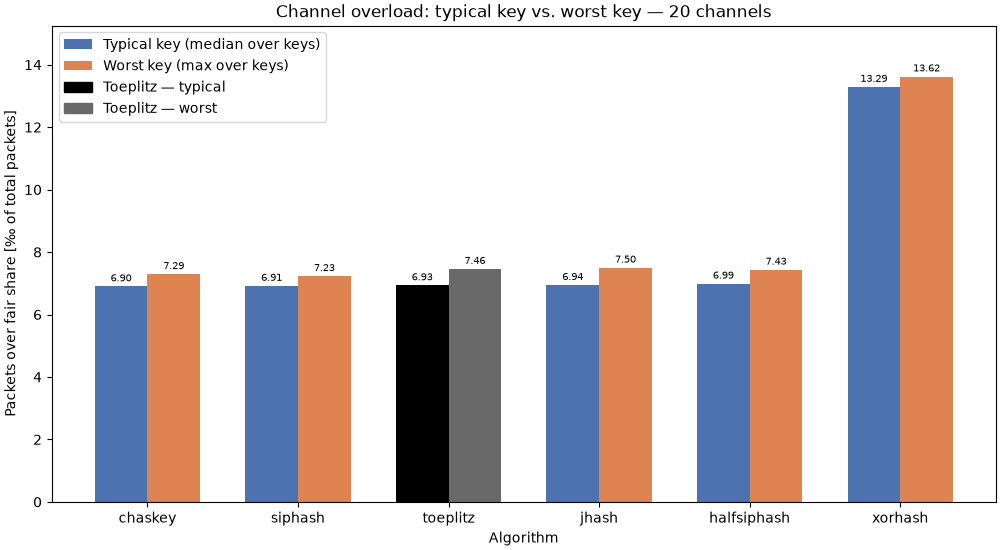
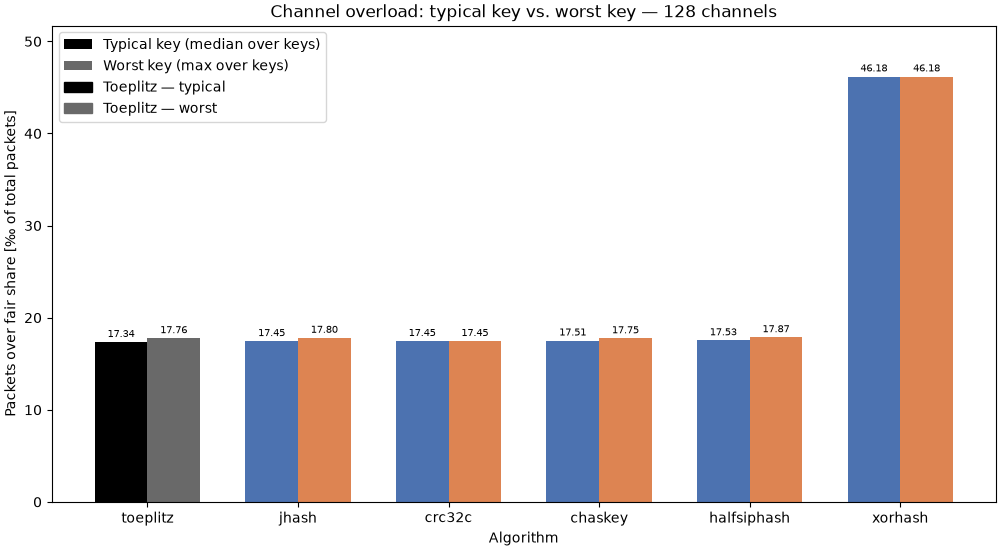
first try with graph agregation

diff --git a/analyze.py b/analyze.py
@@ -1,12 +1,17 @@
 import pandas as pd
 import matplotlib.pyplot as plt
 from matplotlib.patches import Patch
+from matplotlib.ticker import ScalarFormatter
 
 from pathlib import Path
 import sys
 
-CRYPTO_ALGOS = {"chaskey", "halfsiphash", "siphash", "jhash"}
-NON_CRYPTO_ALGOS = {"crc32c", "ascon", "spookyhash", "nsgahash4"}
+ALGOS = {"chaskey", "halfsiphash", "crc32c", "jhash"}
+
+COLORS = {
+    "toeplitz": "black", "jhash": "#4C72B0", "chaskey": "#55A868",
+    "halfsiphash": "#C44E52", "crc32c": "#8172B2", "xorhash": "#CCB974",
+}
 
 
 def load_results(csv_path : Path) -> pd.DataFrame:
@@ -16,102 +21,117 @@ def load_results(csv_path : Path) -> pd.DataFrame:
 
 def aggregate_by_algorithm_run_avg(data: pd.DataFrame, DMA: int) -> pd.DataFrame:
     filtered = data[data["num_channels"] == DMA]
+    sym = filtered["symmetry"].iloc[0]   # kazdy vstupny subor = jedna symetria
 
-    # key_value = priemer thresshold_sum cez vsetky okna toho kluca.
-    # thresshold_sum uz je v promile (benchmark.cpp: sum / (WINDOW_SIZE/1000)),
-    # takze priemer cez okna = promile z celkoveho poctu paketov toho behu.
     per_key = filtered.groupby(["algorithm", "key_id"]).agg(
         key_value=("thresshold_sum", "mean"),
     ).reset_index()
 
     rows = []
     for algorithm, group in per_key.groupby("algorithm"):
-        typical_permille = group["key_value"].median()  # typicky kluc
-        worst_permille = group["key_value"].max()        # najhorsi kluc
         rows.append({
+            "symmetry": sym,
             "algorithm": algorithm,
-            "typical_permille": typical_permille,
-            "worst_permille": worst_permille,
+            "typical_permille": group["key_value"].median(),
+            "worst_permille": group["key_value"].max(),
         })
 
     per_algo = pd.DataFrame(rows)
     return per_algo.sort_values("typical_permille")
 
+def aggregate_over_channels(data, metric):
+    per_key = (data.groupby(["symmetry", "algorithm", "num_channels", "key_id"])[metric]
+               .mean().reset_index())
+    return (per_key.groupby(["symmetry", "algorithm", "num_channels"])[metric]
+            .agg(mean="mean", std="std").reset_index())
 
-def plot_algo_grid(data, median_col, worst_col, algos, nrows, ncols, output_path, DMA, y_label) -> None:
 
-    fig, axes = plt.subplots(nrows, ncols, figsize=(12, 8), sharey=True, constrained_layout=True)
-    toeplitz_data = data[(data["algorithm"] == "toeplitz") & (data["num_channels"] == DMA)]
+def plot_threshold_bar(data0, data1, data2, output_dir: Path, DMA):
+    datas = [data0, data1, data2]
+    fig, axes = plt.subplots(2, 2, figsize=(12, 10), sharey=True,
+                             constrained_layout=True)
 
-    for ax, name in zip(axes.flat, algos) :
-        algo_data = data[(data["algorithm"] == name) & (data["num_channels"] == DMA)]
-        ax.plot(toeplitz_data["tuple_run_index"],toeplitz_data[median_col], label="Toeplitz", linestyle = "--", color="black")
-        ax.plot(algo_data["tuple_run_index"],algo_data[worst_col], label="Worst")
-        ax.plot(algo_data["tuple_run_index"],algo_data[median_col], label="Median")
-        ax.set_xlabel("Window index (1 window = 100,000 tuples)")
-        ax.set_title(name)
-        ax.ticklabel_format(axis="y", useOffset=False, style="plain")
+    width = 0.35
+    y_max = max(d[["typical_permille", "worst_permille"]].max().max() for d in datas)
+
+    for ax, d in zip(axes.flat, datas):   # 3 panely, 4. bunka ostava legende
+        x = range(len(d))
+        mc = ["black"   if a == "toeplitz" else "#4C72B0" for a in d["algorithm"]]
+        wc = ["dimgray" if a == "toeplitz" else "#DD8452" for a in d["algorithm"]]
+        bm = ax.bar([i - width/2 for i in x], d["typical_permille"], width, color=mc)
+        bw = ax.bar([i + width/2 for i in x], d["worst_permille"],   width, color=wc)
+        ax.bar_label(bm, fmt="%.2f", padding=2, fontsize=7.5)
+        ax.bar_label(bw, fmt="%.2f", padding=2, fontsize=7.5)
+        ax.set_xticks(list(x)); ax.set_xticklabels(d["algorithm"], rotation=30, ha="right")
+        ax.set_title(d["symmetry"].iloc[0])
+
+    axes[0, 0].set_ylim(0, y_max * 1.15)
+
+    legend_ax = axes[1, 1]
+    legend_ax.axis("off")
+    legend_ax.legend(handles=[
+        Patch(color="#4C72B0", label="Typical key (median over keys)"),
+        Patch(color="#DD8452", label="Worst key (max over keys)"),
+        Patch(color="black",   label="Toeplitz — typical"),
+        Patch(color="dimgray", label="Toeplitz — worst"),
+    ], loc="center", frameon=False)
 
     for ax in axes[:, 0]:
-        ax.set_ylabel(y_label)
-        
-    fig.suptitle(f"{median_col} on {DMA} channels")
+        ax.set_ylabel("Packets over fair share [‰ of total packets]")
 
-    handles, labels = axes.flat[0].get_legend_handles_labels()
-    fig.legend(handles, labels, loc="upper right")
-
-    fig.savefig(output_path)
+    fig.suptitle(f"Channel overload: typical vs worst key — {DMA} channels")
+    fig.savefig(output_dir / f"overload_bar_{DMA}.png", dpi=150)
     plt.close(fig)
 
-def plot_threshold_bar(data: pd.DataFrame, output_path: Path, DMA: int) -> None:
-    """
-    2 stlpce na algoritmus: typical_permille (modry) a worst_permille (oranzovy).
-    Toeplitz dostava rovnaku dvojicu stlpcov, ale cierno/sivu farbu (baseline).
-    """
-    fig, ax = plt.subplots(figsize=(10, 5.5), constrained_layout=True)
+def plot_metric_vs_channels(agg, metric, output_path, log_y=False):
+    syms = ["none", "xorfold", "sortfold"]
+    fig, axes = plt.subplots(1, 3, figsize=(16, 5), sharey=True, constrained_layout=True)
 
-    x = range(len(data))
-    width = 0.35
+    for ax, sym in zip(axes, syms):
+        sub = agg[agg["symmetry"] == sym]
+        for algo, g in sub.groupby("algorithm"):
+            g = g.sort_values("num_channels")
+            ax.plot(g["num_channels"], g["mean"], marker="o", ms=4,
+                    label=algo, color=COLORS.get(algo))
+            ax.fill_between(g["num_channels"], g["mean"] - g["std"], g["mean"] + g["std"],
+                            alpha=0.15, color=COLORS.get(algo))
+        ax.set_title(sym)
+        ax.set_xscale("log", base=2)
+        ax.set_xticks([8, 16, 20, 32, 40, 64, 128])
+        ax.xaxis.set_major_formatter(ScalarFormatter())
+        ax.xaxis.set_minor_locator(plt.NullLocator())
+        ax.set_xlabel("DMA channels")
+        if log_y:
+            ax.set_yscale("log")
 
-    median_colors = ["black" if a == "toeplitz" else "#4C72B0" for a in data["algorithm"]]
-    worst_colors = ["dimgray" if a == "toeplitz" else "#DD8452" for a in data["algorithm"]]
-
-    bars_median = ax.bar([i - width / 2 for i in x], data["typical_permille"], width,
-                          label="Typical key (median over keys)", color=median_colors)
-    bars_worst = ax.bar([i + width / 2 for i in x], data["worst_permille"], width,
-                         label="Worst key (max over keys)", color=worst_colors)
-
-    ax.bar_label(bars_median, fmt="%.2f", padding=2, fontsize=7)
-    ax.bar_label(bars_worst, fmt="%.2f", padding=2, fontsize=7)
-
-    ax.set_xticks(list(x))
-    ax.set_xticklabels(data["algorithm"])
-    y_max = max(data["typical_permille"].max(), data["worst_permille"].max())
-    ax.set_ylim(0, y_max * 1.12)
-    ax.set_ylabel("Packets over fair share [‰ of total packets]")
-    ax.set_xlabel("Algorithm")
-    ax.set_title(f"Channel overload: typical key vs. worst key — {DMA} channels")
-
-    handles, labels = ax.get_legend_handles_labels()
-    handles += [
-        Patch(color="black", label="Toeplitz — typical"),
-        Patch(color="dimgray", label="Toeplitz — worst"),
-    ]
-    ax.legend(handles=handles)
-
-    fig.savefig(output_path)
+    axes[0].set_ylabel("‰ over fair share" if metric == "thresshold_sum" else "normalized χ²")
+    handles, labels = axes[0].get_legend_handles_labels()
+    fig.legend(handles, labels, loc="lower center", ncol=6, bbox_to_anchor=(0.5, -0.05))
+    fig.suptitle(metric)
+    fig.savefig(output_path, dpi=150, bbox_inches="tight")
     plt.close(fig)
 
 
 def main() :
-    if len(sys.argv) != 4 : 
-        sys.stderr.write("tu run the analysis main needs 4 argumenst: [dataset] [output_file] [DMA channels]\n")
-    RESULTS_CSV = Path(sys.argv[1])
-    data = load_results(RESULTS_CSV)
-    DMA = int(sys.argv[3])
-    results = aggregate_by_algorithm_run_avg(data, DMA)
+    if len(sys.argv) != 6 :
+        sys.stderr.write("usage: analyze.py <sym0.csv> <sym1.csv> <sym2.csv> <outdir> <DMA>\n")
+        sys.exit(1)
 
-    plot_threshold_bar(results, Path(sys.argv[2] + "overload_comparison.png"), DMA)
+    outdir = Path(sys.argv[4])
+    outdir.mkdir(parents=True, exist_ok=True)
+    DMA = int(sys.argv[5])
+
+    frames = [load_results(Path(p)) for p in sys.argv[1:4]]
+
+    # bar: typicky vs najhorsi kluc, jeden panel na symetriu, fixny DMA
+    results = [aggregate_by_algorithm_run_avg(f, DMA) for f in frames]
+    plot_threshold_bar(*results, outdir, DMA)
+
+    # ciary: metrika vs pocet kanalov, jeden panel na symetriu
+    combined = pd.concat(frames, ignore_index=True)
+    for metric in ("thresshold_sum", "chi"):
+        agg = aggregate_over_channels(combined, metric)
+        plot_metric_vs_channels(agg, metric, outdir / f"{metric}_vs_channels.png", log_y=True)
 
 if __name__ == "__main__":
     main()

diff --git a/src/parser.cpp b/src/parser.cpp
@@ -32,12 +32,7 @@ void ipToBytes16(const std::string& ip_str, uint8_t out[16]) {
     throw std::runtime_error("invalid IP address " + ip_str);
 }
 
-std::array<uint8_t, TUPLE_SIZE> parseLineToTuple(const std::string& line) {
-    std::vector<std::string> fields = splitCsvLine(line);
-    if (fields.size() != 5) {
-        throw std::runtime_error("The row has not 5 fields");
-    }
-
+std::array<uint8_t, TUPLE_SIZE> tuple37(std::vector<std::string> fields) {
     std::array<uint8_t, TUPLE_SIZE> key = {};
     int offset = 0;
 
@@ -59,9 +54,43 @@ std::array<uint8_t, TUPLE_SIZE> parseLineToTuple(const std::string& line) {
     std::memcpy(key.data() + offset, &dst_port, 2);
     offset += 2;
 
-    uint8_t protocol = static_cast<uint8_t>(std::stoi(fields[4]));
-    std::memcpy(key.data() + offset, &protocol, 1);
-
     return key;
 }
+
+std::array<uint8_t, TUPLE_SIZE> tuple34(std::vector<std::string> fields) {
+    std::array<uint8_t, TUPLE_SIZE> key = {};
+    int offset = 0;
+
+    uint8_t src_IP[16];
+    ipToBytes16(fields[0], src_IP);
+    std::memcpy(key.data(), src_IP, 16);
+    offset += 16;
+
+    uint8_t dst_IP[16];
+    ipToBytes16(fields[1], dst_IP);
+    std::memcpy(key.data() + offset, dst_IP, 16);
+    offset += 16;
+
+    uint16_t vlan_id = htons(static_cast<uint16_t>(std::stoi(fields[2])));
+    std::memcpy(key.data() + offset, &vlan_id, 2);
+    offset += 2;
+
+    return key; 
+}
+
+
+std::array<uint8_t, TUPLE_SIZE> parseLineToTuple(const std::string& line) {
+    std::vector<std::string> fields = splitCsvLine(line);
+
+    if (fields.size() == 5) {
+        return tuple37(fields);    
+    } else if( fields.size() == 3) { 
+        return tuple34(fields);    
+    }  else throw std::runtime_error("The row has not correct number of fields");
+
+    return {};
+}
+
+
+
 

diff --git a/src/transform.cpp b/src/transform.cpp
@@ -17,7 +17,7 @@ static std::array<uint8_t, TUPLE_SIZE> symmetric_xor(const std::array<uint8_t, T
         xor_key[i] = tuple[i] ^ tuple[i+18];
         xor_key[i+18] = tuple[i] ^ tuple[i+18];
     }
-    xor_key[36] = tuple[36];
+    //xor_key[36] = tuple[36];
     return xor_key;
 } 
 
@@ -33,7 +33,7 @@ static std::array<uint8_t, TUPLE_SIZE> symmetric_sort(const std::array<uint8_t, 
     } else {
         memcpy(&sorted_key[0], &tuple[0], 36);
     }
-    sorted_key[36] = tuple[36];
+    //sorted_key[36] = tuple[36];
 
     return sorted_key;
 }

diff --git a/src/wrappers/hash_register.cpp b/src/wrappers/hash_register.cpp
@@ -6,6 +6,6 @@ const std::array<hash_algoritm, 6> hash_functions_arr = {{
         {"jhash", jhashlittleRssWrapper},
         {"chaskey", chaskeyRssWrapper},
         {"halfsiphash", halfSipHashRssWrapper},
-        {"siphash", sipHashRssWrapper},
+        {"crc32c", crc32cRssWrapper},
         {"xorhash", xorHashRssWrapper}
 }};

diff --git a/src/wrappers/hash_register.hpp b/src/wrappers/hash_register.hpp
@@ -10,11 +10,11 @@
 #include <array>
 
 #include "chaskey_rss.h"
-#include "siphash_rss.h"
 #include "halfsiphash_rss.h"
 #include "jhash_rss.h"
 #include "toeplitz_rss.h"
 #include "xorhash_rss.h"
+#include "crc32c_rss.h"
 
 using RssHashFunction  = uint32_t (*)(const uint8_t *, size_t, const uint8_t *);
 

diff --git a/src/config.hpp b/src/config.hpp
@@ -36,4 +36,6 @@ constexpr std::array<int, 7> CHANNEL_COUNTS = {8, 16, 20, 32, 40, 64, 128};
 
 } // namespace config
 
+constexpr std::size_t TUPLE_SIZE = 36;
+
 #endif // CONFIG_HPP

diff --git a/src/transform.hpp b/src/transform.hpp
@@ -17,7 +17,7 @@
 
 #include <array>
 #include <cstdint>
-#include "flow_data.hpp"
+#include "config.hpp"
 
 enum class Symmetry {
     None     = 0,

diff --git a/src/parser.hpp b/src/parser.hpp
@@ -12,7 +12,7 @@
 #include <cstdint>
 #include <string>
 #include <vector>
-#include "flow_data.hpp"
+#include "config.hpp"
 
 
 /**
